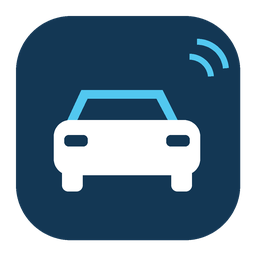
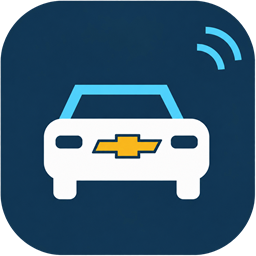
Refresh Chevrolet branding and prepare HACS validation

diff --git a/custom_components/onstar_uy/config_flow.py b/custom_components/onstar_uy/config_flow.py
@@ -26,7 +26,7 @@ class OnStarConfigFlow(config_entries.ConfigFlow, domain=DOMAIN):
             values = dict(user_input)
             values.setdefault("device_id", str(uuid.uuid4()))
             values.setdefault("client_id", APP_CLIENT_ID)
-            values.setdefault("scan_interval", 900)
+            values.setdefault("scan_interval", 1800)
             try:
                 values = await self._apply_advanced(values)
                 client = self._client(values)
@@ -137,7 +137,7 @@ class OnStarConfigFlow(config_entries.ConfigFlow, domain=DOMAIN):
                 errors["base"] = "cannot_connect"
         return self.async_show_form(step_id="reconfigure", data_schema=vol.Schema({
             vol.Optional("password"): TextSelector(TextSelectorConfig(type=TextSelectorType.PASSWORD)),
-            vol.Optional("scan_interval", default=entry.data.get("scan_interval", 900)):
+            vol.Optional("scan_interval", default=entry.data.get("scan_interval", 1800)):
                 vol.All(vol.Coerce(int), vol.Range(min=300, max=86400)),
             vol.Optional("auto_refresh", default=entry.data.get("auto_refresh", True)): bool,
             vol.Optional("advanced"): self._advanced_schema(await self._form_configuration(entry.data)),

diff --git a/custom_components/onstar_uy/__init__.py b/custom_components/onstar_uy/__init__.py
@@ -25,7 +25,7 @@ CONFIG_SCHEMA = vol.Schema({
         vol.Optional("client_id", default="OMB_CVY_AND_8T0"): cv.string,
         vol.Optional("app_version", default="8.19.0"): cv.string,
         vol.Optional("vin"): cv.string,
-        vol.Optional("scan_interval", default=900): vol.All(vol.Coerce(int), vol.Range(min=300)),
+        vol.Optional("scan_interval", default=1800): vol.All(vol.Coerce(int), vol.Range(min=300)),
         vol.Optional("auto_refresh", default=True): cv.boolean,
     }),
 }, extra=vol.ALLOW_EXTRA)

diff --git a/custom_components/onstar_uy/diagnostics.py b/custom_components/onstar_uy/diagnostics.py
@@ -10,6 +10,6 @@ async def async_get_config_entry_diagnostics(hass, entry):
         "loaded": bool(runtime),
         "last_update_success": bool(coordinator and coordinator.last_update_success),
         "app_version": getattr(client, "app_version", None),
-        "scan_interval": entry.data.get("scan_interval", 900),
+        "scan_interval": entry.data.get("scan_interval", 1800),
         "auto_refresh": entry.data.get("auto_refresh", True),
     }

diff --git a/README.md b/README.md
@@ -1,5 +1,7 @@
 # OnStar Chevrolet Uruguay
 
+<img src="https://raw.githubusercontent.com/dgg006/onstar-chevrolet-uruguay/main/custom_components/onstar_uy/brand/icon.png" alt="Icono de OnStar Chevrolet Uruguay" width="96" height="96">
+
 Integración comunitaria de Chevrolet OnStar para Home Assistant, instalable mediante HACS.
 
 **Probada con el servidor de OnStar de Uruguay. La compatibilidad con otros países de Latinoamérica no está comprobada.** Las funciones disponibles dependen del vehículo, la cuenta y el plan contratado. No es una integración oficial de GM, Chevrolet ni OnStar.
@@ -57,7 +59,7 @@ Las instalaciones anteriores conservan su configuración. También se admite el 
 
 ## Actualización y opciones
 
-Los datos se solicitan al vehículo cada 15 minutos. El botón **Actualizar datos** permite una solicitud manual. El servidor puede entregar información anterior: cada lectura conserva la fecha informada por el vehículo.
+En instalaciones nuevas, los datos se solicitan al vehículo cada 30 minutos. Las instalaciones existentes conservan su intervalo configurado. El botón **Actualizar datos** permite una solicitud manual. El servidor puede entregar información anterior: cada lectura conserva la fecha informada por el vehículo.
 
 Desde **Reconfigurar** se puede cambiar la contraseña, el intervalo —mínimo 5 minutos— y la solicitud automática de datos nuevos. Si esta última se desactiva, se siguen consultando los datos guardados por GM y se conserva el botón de actualización manual.
 
@@ -78,6 +80,18 @@ Los decimales de presentación se pueden ajustar en Home Assistant; los valores 
 
 Que el servidor anuncie una capacidad no garantiza que entregue una lectura. Los sensores experimentales se pueden desactivar individualmente.
 
+## Demoras y errores de OnStar
+
+- Los controles pueden tardar más de un minuto. La integración espera hasta 180 segundos y consulta el resultado cada 5 segundos; no vuelve a enviar la orden física.
+- Un resultado no confirmado no equivale a que el auto esté bloqueado o desbloqueado. Comprobar el vehículo si la acción es importante.
+- Si aparece HTTP 429, el servicio está limitando solicitudes. Evitar pulsar repetidamente, aumentar el intervalo o desactivar temporalmente la solicitud automática de datos nuevos desde Reconfigurar.
+- Si también falla myChevrolet, comprobar cobertura, estado del servicio y permisos del plan. Cambiar la configuración del cliente no soluciona por sí solo un problema de comunicación con el vehículo.
+- Las fechas de las lecturas corresponden a los datos entregados por GM, que pueden ser anteriores a la última consulta.
+
+## Desinstalación
+
+Eliminar la entrada de OnStar Chevrolet Uruguay en Ajustes → Dispositivos y servicios. Después se pueden quitar sus archivos desde HACS y reiniciar Home Assistant. Esto elimina la configuración de esta integración en HA; no cancela la cuenta ni el plan de OnStar.
+
 ## Instalación sin HACS
 
 Copiar `custom_components/onstar_uy` a la carpeta `custom_components` de Home Assistant, reiniciar y agregar la integración desde la interfaz.
@@ -88,4 +102,4 @@ Las credenciales personales se guardan en la configuración de tu Home Assistant
 
 Para informar un problema, indicar versiones, país y mensaje de error, sin contraseñas, tokens, VIN ni ubicación. Consultar [SECURITY.md](SECURITY.md) y [CHANGELOG.md](CHANGELOG.md).
 
-Los nombres Chevrolet y OnStar identifican los servicios compatibles y no implican afiliación con sus propietarios.
+Los nombres Chevrolet y OnStar y el emblema de Chevrolet identifican los servicios compatibles y no implican afiliación ni aprobación de sus propietarios. La licencia del código no concede derechos sobre esas marcas.

diff --git a/CHANGELOG.md b/CHANGELOG.md
@@ -1,5 +1,13 @@
 # Cambios
 
+## 0.8.2
+
+- Icono con emblema de Chevrolet en tamaños estándar y alta resolución.
+- Validación Hassfest junto a las comprobaciones de HACS y pruebas automáticas.
+- Actualización de las acciones de validación de GitHub.
+- Intervalo predeterminado de 30 minutos para nuevas instalaciones; los ajustes existentes se conservan.
+- Documentación de demoras, límites de solicitudes y desinstalación.
+
 ## 0.8.1
 
 - Espera de confirmación de controles ampliada a 180 segundos para respuestas lentas de OnStar.
